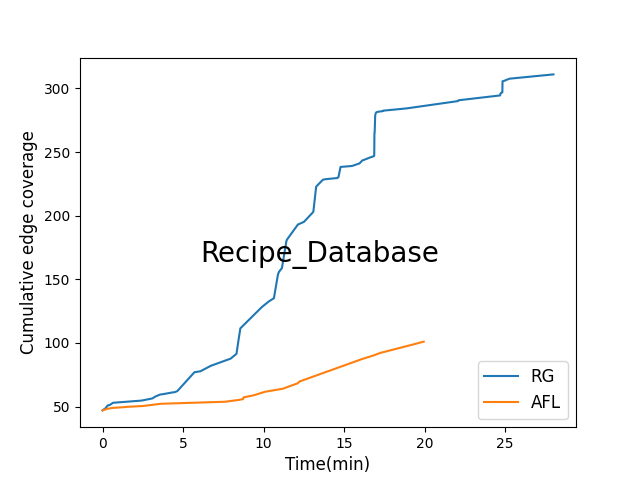
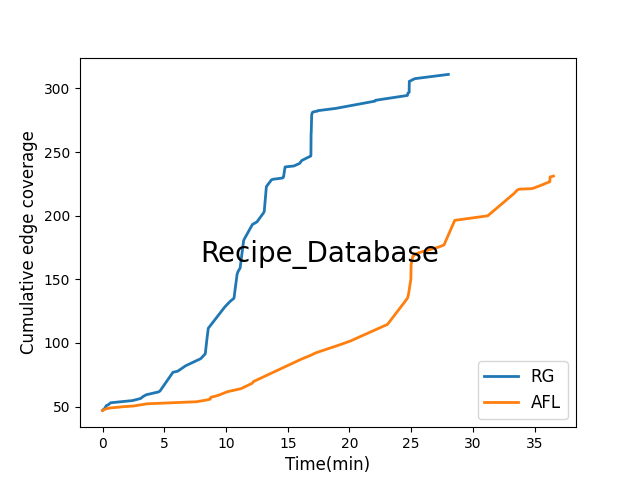
new

diff --git a/draw.py b/draw.py
@@ -58,7 +58,7 @@ def get_average(maxtime, f1, f2, f3, label, islog=0): # input: the 3 csv files
 
     if islog:
         plt.xscale('log')
-    plt.plot(xnew, ynew, label=label)
+    plt.plot(xnew, ynew,  label=label, linewidth=2)
 
 
 def draw1 ():
